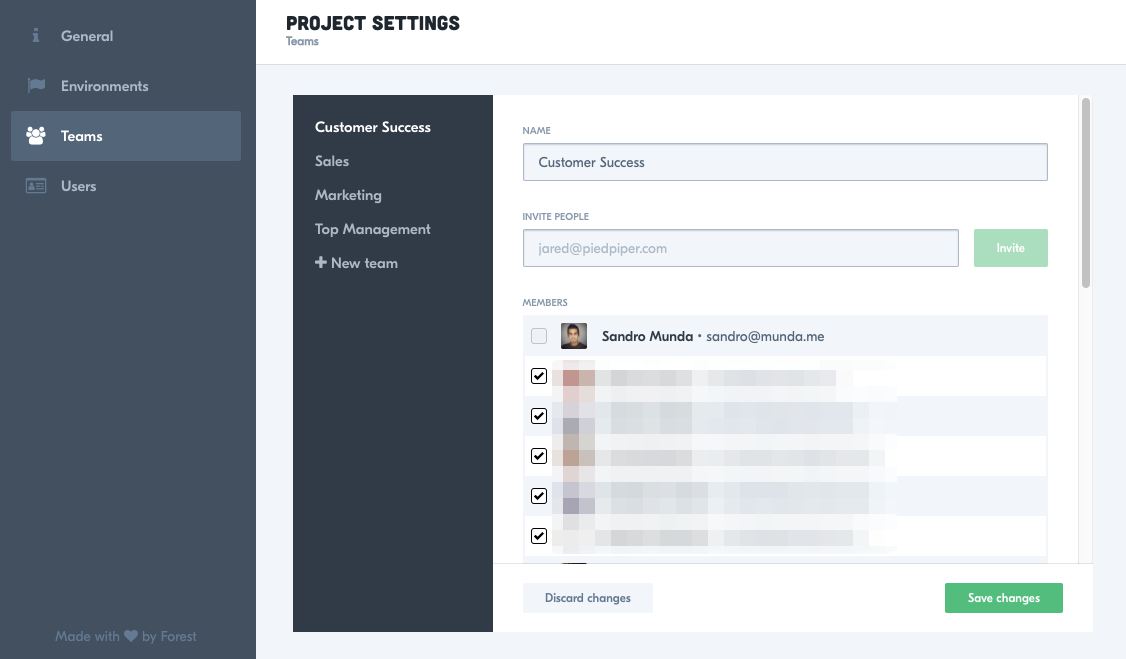
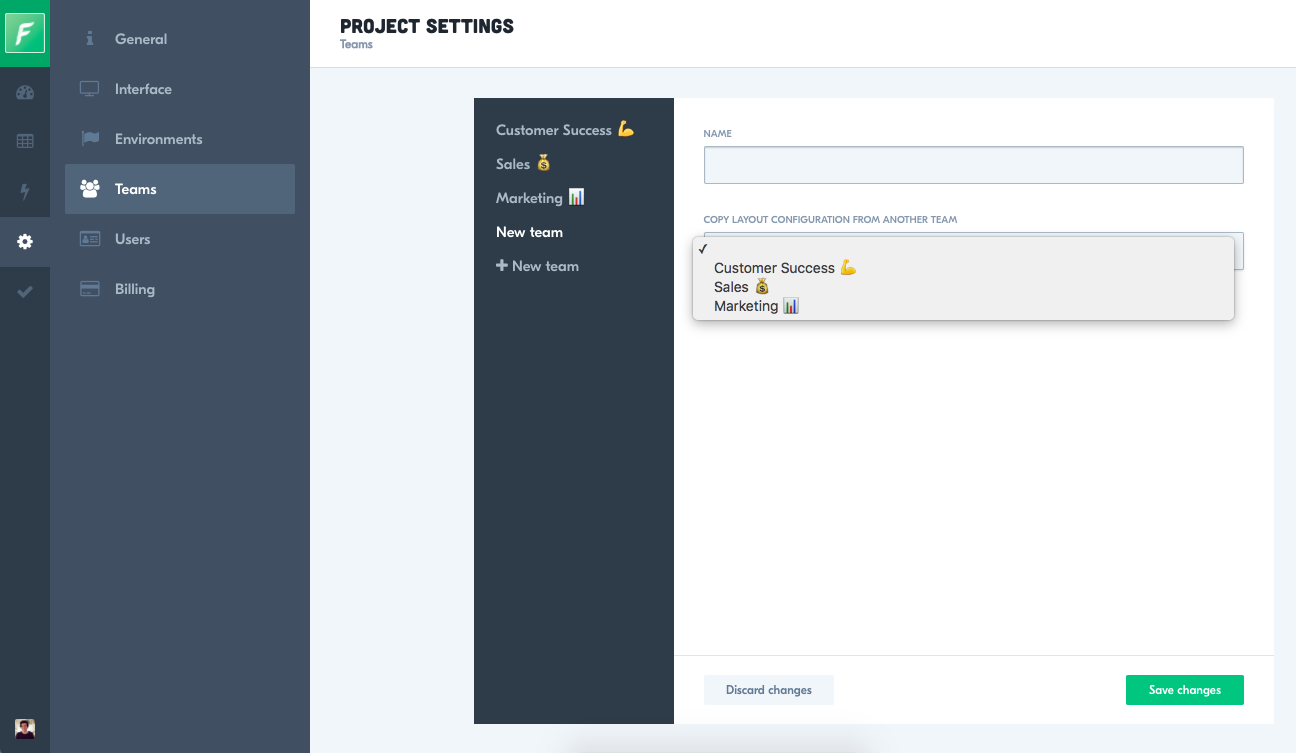
add copy layout team feature in managing team, user permissions section (#19)

diff --git a/_includes/lumber/howtos.md b/_includes/lumber/howtos.md
@@ -27,9 +27,9 @@ to your Production environment.
 
 [![heroku-deploy-video](https://img.youtube.com/vi/pEQ9Ro3UeKY/0.jpg)](https://www.youtube.com/watch?v=pEQ9Ro3UeKY)
 
-## Managing team permissions
+## Managing team, user permissions
 
-As a user with the "admin" role (See <a
+As a an admin (See <a
 href="/knowledge-base.html#users-roles-and-permissions" target="_blank">users,
 roles and permissions</a>), you can create different teams.
 
@@ -38,13 +38,11 @@ Easily configure the interface of your teams to:
 - Optimize the admin interface per business unit: success, support, sales or
   marketing teams.
 
-To add a new team, go to your project settings -> Teams -> + New team and start inviting your teammates.
-
 ![Team permission 1](/public/img/team-permission-1.png "team-permission")
 
-You can switch between teams by clicking on your avatar at the bottom left of your screen. Then, select the team you want to connect to. Once logged into a team, you can start customizing the interface of your team.
+To add a new team, go to your project settings -> Teams -> + New team. If you already have configured a team, you can easily copy the configuration from a previous team to the new one.
 
-![Team permission 1](/public/img/team-permission-2.png "team-permission")
+Once created, invite your teammates to join your team.
 
 ## Extending the Admin API
 

diff --git a/_includes/express-sequelize/howtos.md b/_includes/express-sequelize/howtos.md
@@ -44,9 +44,9 @@ Select your environment, click on “Deploy”, then "Save". You’re now ready 
 
 ![Environment 2](/public/img/environment2.png "env")
 
-## Managing team permissions
+## Managing team, user permissions
 
-As a user with the "admin" role (See <a
+As a an admin (See <a
 href="/knowledge-base.html#users-roles-and-permissions" target="_blank">users,
 roles and permissions</a>), you can create different teams.
 
@@ -55,13 +55,11 @@ Easily configure the interface of your teams to:
 - Optimize the admin interface per business unit: success, support, sales or
   marketing teams.
 
-To add a new team, go to your project settings -> Teams -> + New team and start inviting your teammates.
-
 ![Team permission 1](/public/img/team-permission-1.png "team-permission")
 
-You can switch between teams by clicking on your avatar at the bottom left of your screen. Then, select the team you want to connect to. Once logged into a team, you can start customizing the interface of your team.
+To add a new team, go to your project settings -> Teams -> + New team. If you already have configured a team, you can easily copy the configuration from a previous team to the new one.
 
-![Team permission 1](/public/img/team-permission-2.png "team-permission")
+Once created, invite your teammates to join your team.
 
 ## Extending the Admin API
 

diff --git a/_includes/rails/howtos.md b/_includes/rails/howtos.md
@@ -44,9 +44,9 @@ Select your environment, click on “Deploy”, then "Save". You’re now ready 
 
 ![Environment 2](/public/img/environment2.png "env")
 
-## Managing team permissions
+## Managing team, user permissions
 
-As a user with the "admin" role (see <a
+As a an admin (See <a
 href="/knowledge-base.html#users-roles-and-permissions" target="_blank">users,
 roles and permissions</a>), you can create different teams.
 
@@ -55,13 +55,11 @@ Easily configure the interface of your teams to:
 - Optimize the admin interface per business unit: success, support, sales or
   marketing teams.
 
-To add a new team, go to your project settings -> Teams -> + New team and start inviting your teammates.
-
 ![Team permission 1](/public/img/team-permission-1.png "team-permission")
 
-You can switch between teams by clicking on your avatar at the bottom left of your screen. Then, select the team you want to connect to. Once logged into a team, you can start customizing the interface of your team.
+To add a new team, go to your project settings -> Teams -> + New team. If you already have configured a team, you can easily copy the configuration from a previous team to the new one.
 
-![Team permission 1](/public/img/team-permission-2.png "team-permission")
+Once created, invite your teammates to join your team.
 
 ## Extending the Admin API
 

diff --git a/_includes/express-mongoose/howtos.md b/_includes/express-mongoose/howtos.md
@@ -51,9 +51,9 @@ use Forest on production!
 
 ![Environment 2](/public/img/environment2.png "env")
 
-## Managing team permissions
+## Managing team, user permissions
 
-As a user with the "admin" role (See <a
+As a an admin (See <a
 href="/knowledge-base.html#users-roles-and-permissions" target="_blank">users,
 roles and permissions</a>), you can create different teams.
 
@@ -62,13 +62,11 @@ Easily configure the interface of your teams to:
 - Optimize the admin interface per business unit: success, support, sales or
   marketing teams.
 
-To add a new team, go to your project settings -> Teams -> + New team and start inviting your teammates.
-
 ![Team permission 1](/public/img/team-permission-1.png "team-permission")
 
-You can switch between teams by clicking on your avatar at the bottom left of your screen. Then, select the team you want to connect to. Once logged into a team, you can start customizing the interface of your team.
+To add a new team, go to your project settings -> Teams -> + New team. If you already have configured a team, you can easily copy the configuration from a previous team to the new one.
 
-![Team permission 1](/public/img/team-permission-2.png "team-permission")
+Once created, invite your teammates to join your team.
 
 ## Extending the Admin API
 
